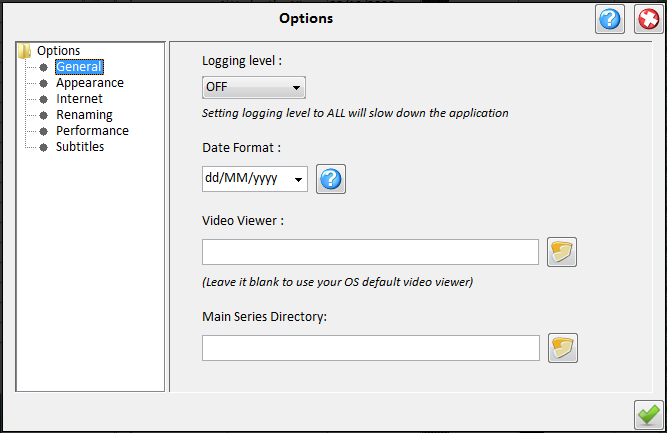
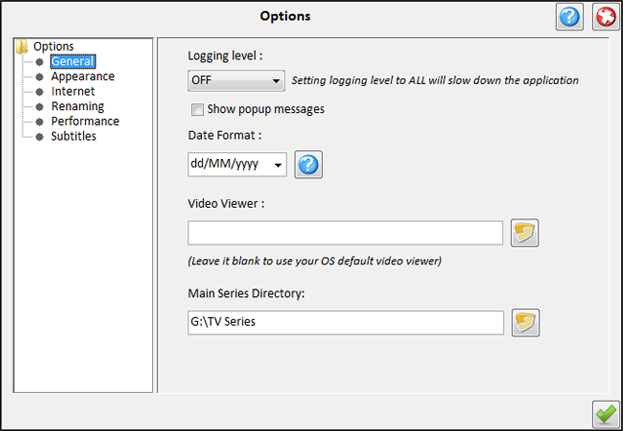
Changed general options help (show popup)

Changed region(s): [[0.0, 0.0, 1.0, 1.0]]

diff --git a/src/help/html/general_options.html b/src/help/html/general_options.html
@@ -12,6 +12,10 @@
           WARNING(Warnings and higher level errors), ALL (Log Everything).<br />
           Note that setting logging to all slows down the application.
         </li>
+        <li>
+            <b>Show popup messages</b> -
+            If information popups will be shown or just display in the messages panel.
+        </li>
          <li>
           <b>Date Format </b> -
           The format of the application's dates.Click on the question mark for a list of the patterns you
